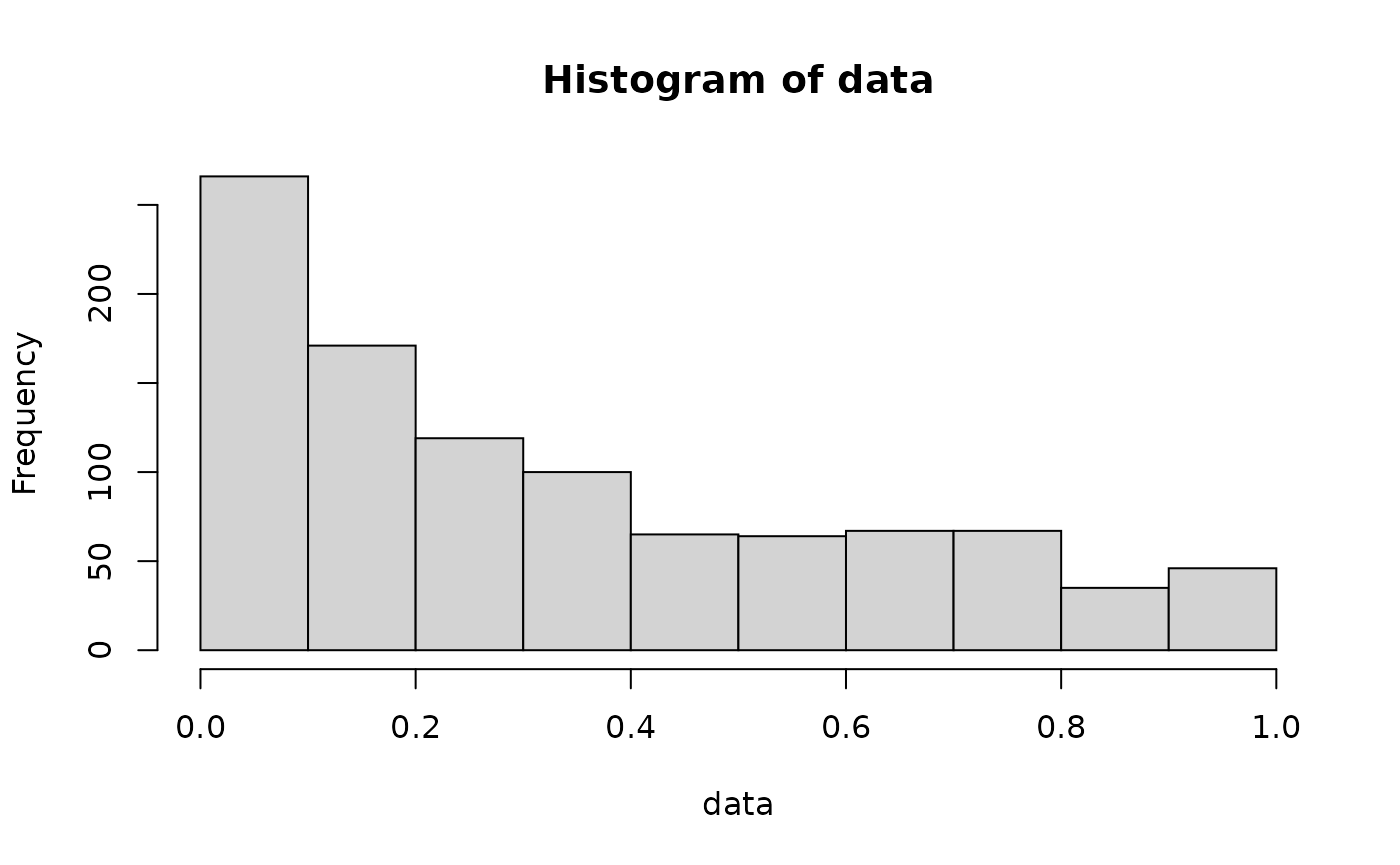
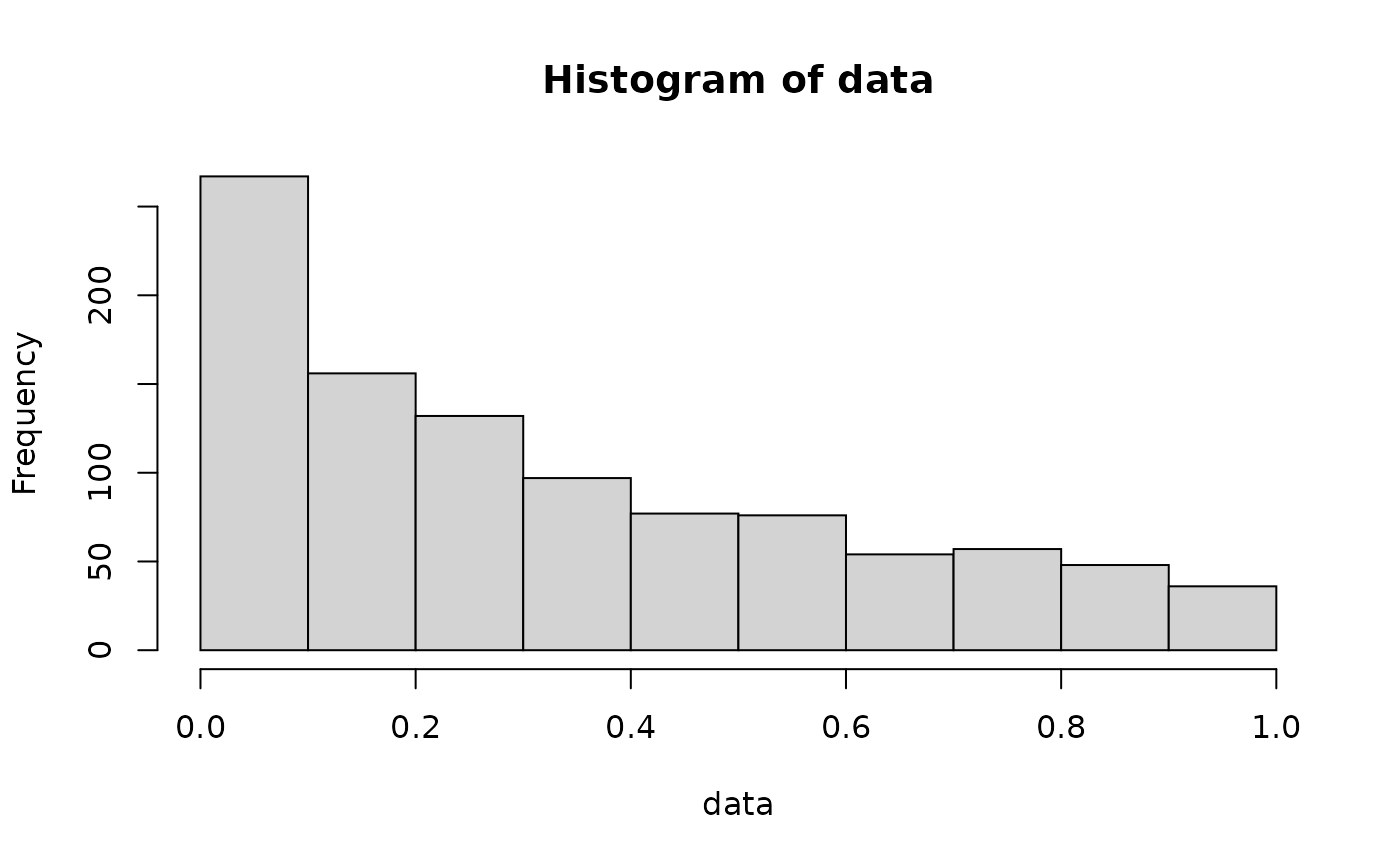
Built site for bradfordr: 0.0.0.9000@29a3af0

diff --git a/articles/rng-bradford-dist.html b/articles/rng-bradford-dist.html
@@ -134,7 +134,7 @@ x = F^{-1}(u;c) = \frac{(1+c)^u - 1}{c}
 <span class="va">data</span> <span class="op">&lt;-</span> <span class="fu"><a href="../reference/rbradford.html">rbradford</a></span><span class="op">(</span><span class="fl">1000</span>, c<span class="op">=</span><span class="fl">10</span><span class="op">)</span>
 
 <span class="fu"><a href="https://rdrr.io/r/utils/head.html">head</a></span><span class="op">(</span><span class="va">data</span><span class="op">)</span>
-<span class="co">#&gt; [1] 0.36547672 0.13138593 0.07531710 0.61163447 0.29745728 0.06903949</span></code></pre></div>
+<span class="co">#&gt; [1] 0.06114788 0.28346440 0.19959468 0.08290258 0.10427035 0.93481333</span></code></pre></div>
 <p>We can easily plot this data to understand how it behaves:</p>
 <div class="sourceCode" id="cb3"><pre class="downlit sourceCode r">
 <code class="sourceCode R">

diff --git a/reference/qbradford.html b/reference/qbradford.html
@@ -170,7 +170,8 @@ P(x&lt;=X); otherwise, P(x &gt; X).</p></td>
 
     <h2 class="hasAnchor" id="examples"><a class="anchor" href="#examples"></a>Examples</h2>
     <pre class="examples"><div class='input'><span class='fu'>qbradford</span><span class='op'>(</span>p<span class='op'>=</span><span class='fl'>0.5</span>, c<span class='op'>=</span><span class='fl'>13</span><span class='op'>)</span>
-</div><div class='output co'>#&gt; [1] 0.2108967</div></pre>
+</div><div class='output co'>#&gt; [1] 0.2108967</div><div class='input'>
+</div></pre>
   </div>
   <div class="col-md-3 hidden-xs hidden-sm" id="pkgdown-sidebar">
     <nav id="toc" data-toggle="toc" class="sticky-top">

diff --git a/reference/dbradford.html b/reference/dbradford.html
@@ -163,7 +163,8 @@ greater than 0.</p></td>
 
     <h2 class="hasAnchor" id="examples"><a class="anchor" href="#examples"></a>Examples</h2>
     <pre class="examples"><div class='input'><span class='fu'>dbradford</span><span class='op'>(</span>x<span class='op'>=</span><span class='fl'>0.375</span>, c<span class='op'>=</span><span class='fl'>100</span><span class='op'>)</span>
-</div><div class='output co'>#&gt; [1] 0.5628028</div></pre>
+</div><div class='output co'>#&gt; [1] 0.5628028</div><div class='input'>
+</div></pre>
   </div>
   <div class="col-md-3 hidden-xs hidden-sm" id="pkgdown-sidebar">
     <nav id="toc" data-toggle="toc" class="sticky-top">
